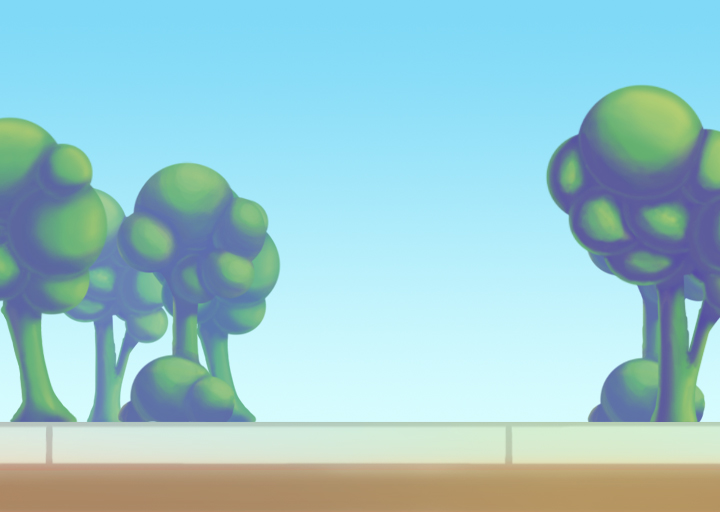
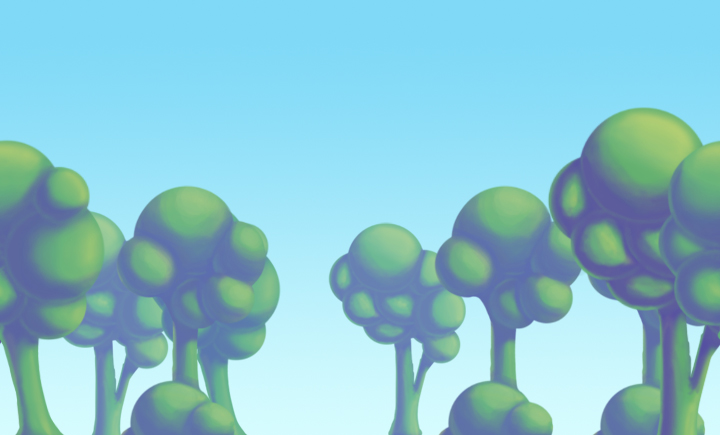
Camera moves with train; Parallax background; New environment assets

diff --git a/ts/States/GamePlay.ts b/ts/States/GamePlay.ts
@@ -6,11 +6,10 @@
 
         public static Name: string = 'gameplay';
         private session: SessionData;
-        private background: Phaser.Image;
-        private platform: Phaser.Image;
+        private environment: Environment;
         private timeIndicator: TimeIndicator;
         private train: Train;
-        private cargo: CargoGrid;
+        private cargo: CargoPlatform;
         private wagonIndicator: WagonIndicator;
         private completedWagons: number;
         private correct: Phaser.Sound;
@@ -27,17 +26,14 @@
                 this.session = new SessionData(0, 0);
             }
 
-            this.background = this.game.add.image(0, 0, Images.Background_01);
-            this.background.anchor.set(0.5, 1);
-
-            this.platform = this.game.add.image(0, 0, Images.Platform_01);
-            this.platform.anchor.set(0.5, 0);
+            this.environment = new Environment(this.game);
 
             this.train = new Train(this.game);
-            this.train.wagonAdded.add(this.onWagonAdded, this);
+            this.train.wagonCompleted.add(this.moveToNext, this);
 
-            this.cargo = new CargoGrid(this.game);
-            this.cargo.cargoDropped.add(this.onCargoDropped, this);
+            this.cargo = new CargoPlatform(this.game);
+            this.cargo.cargoAdded.add(this.cargoAdded, this);
+            this.cargo.cargoRemoved.add(this.cargoRemoved, this);
 
             this.timeIndicator = new TimeIndicator(this.game);
             this.timeIndicator.timeOut.addOnce(this.onTimeOut, this);
@@ -55,24 +51,42 @@
             this.startRound();
         }
 
-        private onWagonAdded(wagon: Wagon): void {
-            if (wagon.type === WagonTypes.CargoWagon) {
-                let requiredCargo: CargoTypes[] = (<CargoWagon>wagon).setRandomCargo(this.session.getCargoAmount());
-                this.cargo.spawnCargo(requiredCargo);
+        private moveToNext(): void {
+            let wagon: Wagon = this.train.moveToNext();
 
-                wagon.moveInDone.addOnce(() => {
-                    this.timeIndicator.start(this.session.getWagonTime(requiredCargo.length));
-                });
-                wagon.objectiveDone.addOnce(() => {
+            if (wagon) {
+                if (wagon.type === WagonTypes.CargoWagon) {
+                    let requiredCargo: CargoTypes[] = (<CargoWagon>wagon).setRandomCargo(this.session.getCargoAmount());
+                    this.cargo.createNext().spawnCargo(requiredCargo);
+
+                    wagon.moveInDone.addOnce(() => {
+                        this.timeIndicator.start(this.session.getWagonTime(requiredCargo.length));
+                    });
+                    wagon.objectiveDone.addOnce(() => {
+                        this.timeIndicator.stop();
+                        this.session.nextWagon();
+                        this.completedWagons++;
+                        this.wagonIndicator.setWagonAmount(this.train.totalWagons - this.completedWagons);
+                    });
+                } else if (wagon.type === WagonTypes.Caboose) {
                     this.timeIndicator.stop();
-                    this.session.nextWagon();
-                    this.completedWagons++;
-                    this.wagonIndicator.setWagonAmount(this.train.totalWagons - this.completedWagons);
-                });
-            } else if (wagon.type === WagonTypes.Caboose) {
-                this.timeIndicator.stop();
-                wagon.moveOutDone.addOnce(this.onRoundDone, this);
+                    wagon.moveOutDone.addOnce(this.onRoundDone, this);
+                }
+
+                if (wagon.type !== WagonTypes.Locomotive) {
+                    this.cargo.moveToNext();
+                }
             }
+
+            this.environment.moveToNext();
+        }
+
+        private cargoAdded(cargo: CargoGrid): void {
+            cargo.cargoDropped.add(this.onCargoDropped, this);
+        }
+
+        private cargoRemoved(cargo: CargoGrid): void {
+            cargo.cargoDropped.remove(this.onCargoDropped, this);
         }
 
         /**
@@ -109,29 +123,8 @@
          * Resizes all game elements based on the screen size.
          */
         public resize(): void {
-            let bgPerc: number = 0.4;
-            let ptfrmPerc: number = 0.6;
-
-            // Background positioning
-            this.background.y = this.game.height * bgPerc;
-            this.background.x = this.game.width * 0.5;
-            // Background height scaling
-            this.background.height = this.game.height * bgPerc;
-            this.background.scale.x = this.background.scale.y;
-            // Background width scaling
-            if (this.background.width < this.game.width) {
-                this.background.width = this.game.width;
-                this.background.scale.y = this.background.scale.x;
-            }
-
-            // Platform positioning
-            this.platform.y = this.background.bottom;
-            this.platform.x = this.game.width * 0.5;
-            // Platform height scaling
-            this.platform.height = this.game.height * ptfrmPerc;
-            this.platform.width = this.game.width;
-
-            this.train.y = this.platform.y;
+            this.environment.resize();
+            this.train.y = this.environment.platformY;
             this.train.resize();
             this.cargo.resize();
             let topUiY: number = this.game.height * 0.05;
@@ -141,7 +134,8 @@
 
         private startRound(): void {
             this.train.reset(this.session.getTrainLength());
-            this.train.start();
+            this.cargo.reset();
+            this.moveToNext();
             this.completedWagons = 0;
             this.wagonIndicator.setWagonAmount(this.train.totalWagons);
         }

diff --git a/ts/Objects/Environment.ts b/ts/Objects/Environment.ts
@@ -1,0 +1,82 @@
+module ExamAssignmentMA {
+    export class Environment extends Phaser.Group {
+        private readonly bgPercentage: number = 0.4;
+
+        /* Tilescale has to be set relative to image resolution because pixi
+           overrides the normal width/height behaviour of images in tileSprite
+           and makes it 'inpossible' to set width/height of the sprite in it.
+        */
+        private readonly bgWidth: number = 720;
+        private readonly bgHeight: number = 435;
+        private readonly platformWidth: number = 720;
+        private readonly platformHeight: number = 753;
+
+        private readonly bgParallax: number = 0.2;
+        private readonly platformParallax: number = 1;
+
+        private background: Phaser.TileSprite;
+        private platform: Phaser.TileSprite;
+        private moveTween: Phaser.Tween;
+        private moveLeftNormal: number;
+        private targetOffset: number = 0;
+
+        constructor(game: Phaser.Game) {
+            super(game);
+
+            this.background = this.game.add.tileSprite(0, 0, 0, 0, Images.Background_01);
+            this.platform = this.game.add.tileSprite(0, 0, 0, 0, Images.Platform_01);
+            this.moveLeftNormal = 0;
+        }
+
+        public moveToNext(): void {
+            if (this.moveTween && this.moveTween.isRunning) {
+                this.moveTween.stop();
+            }
+            this.targetOffset++;
+            this.moveLeftNormal = 1;
+            this.moveTween = this.game.add.tween(this).to({ moveAnim: 0 }, 1000, Phaser.Easing.Quadratic.InOut, true);
+        }
+
+        public resize(): void {
+            this.background.width = this.game.width;
+            this.background.height = this.game.height * this.bgPercentage;
+
+            // Background is scaled on desired height
+            if (this.background.height / this.bgHeight * this.bgWidth >= this.game.width) {
+                this.background.tileScale.x = this.background.tileScale.y = this.background.height / this.bgHeight;
+                this.background.tilePosition.y = 0;
+
+                // Background is too short horizontally -> make it overflow vertically up
+            } else {
+                this.background.tileScale.x = this.background.tileScale.y = this.background.width / this.bgWidth;
+                this.background.tilePosition.y = (this.background.height - this.bgHeight * this.background.tileScale.y) / this.background.tileScale.y;
+            }
+
+            this.platform.y = this.background.bottom;
+            this.platform.width = this.game.width;
+            this.platform.height = this.game.height - this.platform.y;
+            this.platform.tileScale.x = this.platform.width / this.platformWidth;
+            this.platform.tileScale.y = this.platform.height / this.platformHeight;
+
+            // Reposition
+            if (!this.moveTween || !this.moveTween.isRunning) {
+                this.moveAnim = this.moveAnim;
+            }
+        }
+
+        private get moveAnim(): number {
+            return this.moveLeftNormal;
+        }
+
+        private set moveAnim(value: number) {
+            this.moveLeftNormal = value;
+            this.background.tilePosition.x = (this.background.width - this.bgWidth * this.background.tileScale.x) / this.background.tileScale.x / 2 + // Center first
+                this.background.width / this.background.tileScale.x * (this.targetOffset - this.moveLeftNormal) * -this.bgParallax;
+            this.platform.tilePosition.x = this.platform.width / this.platform.tileScale.x * (this.targetOffset - this.moveLeftNormal) * -this.platformParallax;
+        }
+
+        public get platformY(): number {
+            return this.platform.y;
+        }
+    }
+}

diff --git a/ts/Objects/Cargo/CargoPlatform.ts b/ts/Objects/Cargo/CargoPlatform.ts
@@ -1,0 +1,79 @@
+module ExamAssignmentMA {
+    export class CargoPlatform extends Phaser.Group {
+
+        public cargoAdded: Phaser.Signal;
+        public cargoRemoved: Phaser.Signal;
+        private cargo: CargoGrid[];
+        private moveTween: Phaser.Tween;
+        private moveNormal: number;
+
+        constructor(game: Phaser.Game) {
+            super(game);
+            this.cargo = [];
+            this.cargoAdded = new Phaser.Signal();
+            this.cargoRemoved = new Phaser.Signal();
+            this.moveNormal = 0;
+        }
+
+        public reset(): void {
+            this.cargo = [ null ];
+        }
+
+        public createNext(): CargoGrid {
+            let newCargo: CargoGrid = new CargoGrid(this.game);
+            this.add(newCargo);
+            this.cargo.push(newCargo);
+            this.cargoAdded.dispatch(newCargo);
+            newCargo.x = this.game.width; // Out of screen until positioned
+            return newCargo;
+        }
+
+        public moveToNext(): void {
+            if (this.moveTween && this.moveTween.isRunning) {
+                this.moveTween.stop();
+            }
+            this.moveNormal = 0;
+            this.moveTween = this.game.add.tween(this).to({ moveAnim: -1 }, 1000, Phaser.Easing.Quadratic.InOut, true);
+            this.moveTween.onComplete.addOnce(this.moveComplete, this);
+            console.log('moving out');
+        }
+
+        private moveComplete(): void {
+            if (this.cargo.length <= 0) {
+                return;
+            }
+            console.log('move complete', this);
+            let removing: CargoGrid = this.cargo[0];
+            this.cargo.splice(0, 1);
+            if (removing) {
+                console.log('removing cargoi');
+                this.cargoRemoved.dispatch(removing);
+            }
+            this.moveNormal = 0;
+        }
+
+        public resize(): void {
+            for (let i: number = 0; i < this.cargo.length; i++) {
+                if (this.cargo[i]) {
+                    this.cargo[i].resize();
+                }
+            }
+            if (!this.moveTween || !this.moveTween.isRunning) {
+                this.moveAnim = this.moveAnim;
+            }
+        }
+
+        private get moveAnim(): number {
+            return this.moveNormal;
+        }
+
+        private set moveAnim(value: number) {
+            this.moveNormal = value;
+            for (let i: number = 0; i < this.cargo.length; i++) {
+                if (this.cargo[i]) {
+                    this.cargo[i].x = (value + i) * this.game.width;
+                }
+            }
+        }
+    }
+}

diff --git a/ts/Objects/Train/Train.ts b/ts/Objects/Train/Train.ts
@@ -4,8 +4,9 @@
      */
     export class Train extends Phaser.Group {
 
-        public wagonAdded: Phaser.Signal;
         private readonly dropMarginNormal: number = 0.1;
+
+        public wagonCompleted: Phaser.Signal;
         private factory: WagonFactory;
         private wagons: Wagon[];
         private wagonCounter: number;
@@ -16,18 +17,30 @@
          */
         constructor(game: Phaser.Game) {
             super(game);
-            this.wagonAdded = new Phaser.Signal();
+            this.wagonCompleted = new Phaser.Signal();
             this.factory = new WagonFactory(this.game);
             this.wagons = [];
             this.wagonCounter = 0;
             this.trainLength = 0;
         }
 
-        /**
-         * Starts the train to spawn the first wagons.
-         */
-        public start(): void {
-            this.spawnNext();
+        public moveToNext(): Wagon {
+            let activeWagon: Wagon = this.activeWagon, newWagon: Wagon = null;
+
+            // Spawn next
+            if (!activeWagon || activeWagon.type !== WagonTypes.Caboose) {
+                newWagon = this.spawnNext();
+            }
+
+            // Move out
+            if (activeWagon) {
+                activeWagon.moveOut();
+                activeWagon.moveOutDone.addOnce(() => {
+                    this.removeWagon(activeWagon);
+                });
+            }
+
+            return newWagon;
         }
 
         private spawnNext(): Wagon {
@@ -42,22 +55,12 @@
             wagon.moveIn();
             this.wagons.push(wagon);
             this.add(wagon);
-            this.wagonAdded.dispatch(wagon);
             this.wagonCounter++;
             return wagon;
         }
 
         private wagonObjectiveDone(wagon: Wagon): void {
-            // Spawn next
-            if (wagon.type !== WagonTypes.Caboose) {
-                this.spawnNext();
-            }
-
-            // Move out
-            wagon.moveOut();
-            wagon.moveOutDone.addOnce(() => {
-                this.removeWagon(wagon);
-            });
+            this.wagonCompleted.dispatch(wagon);
         }
 
         private removeWagon(wagon: Wagon): void {

diff --git a/vendor/references.ts b/vendor/references.ts
@@ -12,7 +12,9 @@
 /// <reference path="../ts/Objects/Cargo/Cargo.ts" />
 /// <reference path="../ts/Objects/Cargo/CargoFactory.ts" />
 /// <reference path="../ts/Objects/Cargo/CargoGrid.ts" />
+/// <reference path="../ts/Objects/Cargo/CargoPlatform.ts" />
 /// <reference path="../ts/Objects/Cargo/CargoTypes.ts" />
+/// <reference path="../ts/Objects/Environment.ts" />
 /// <reference path="../ts/Objects/SessionData.ts" />
 /// <reference path="../ts/Objects/Train/CargoIndicator/CargoIcon.ts" />
 /// <reference path="../ts/Objects/Train/CargoIndicator/CargoIndicator.ts" />

diff --git a/ts/States/Boot.ts b/ts/States/Boot.ts
@@ -29,7 +29,6 @@ module ExamAssignmentMA {
                 this.scale.scaleMode = Phaser.ScaleManager.RESIZE;
                 this.game.scale.onSizeChange.add(() => {
                     this.game.state.getCurrentState().resize();
-                    console.log(this.game.scale);
                 }, this);
             }
         }
